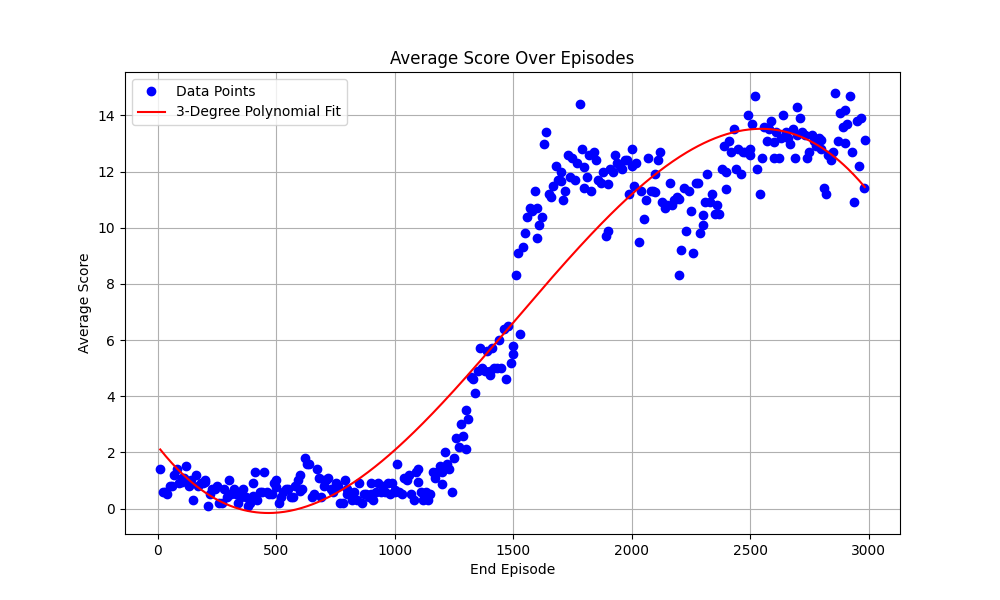
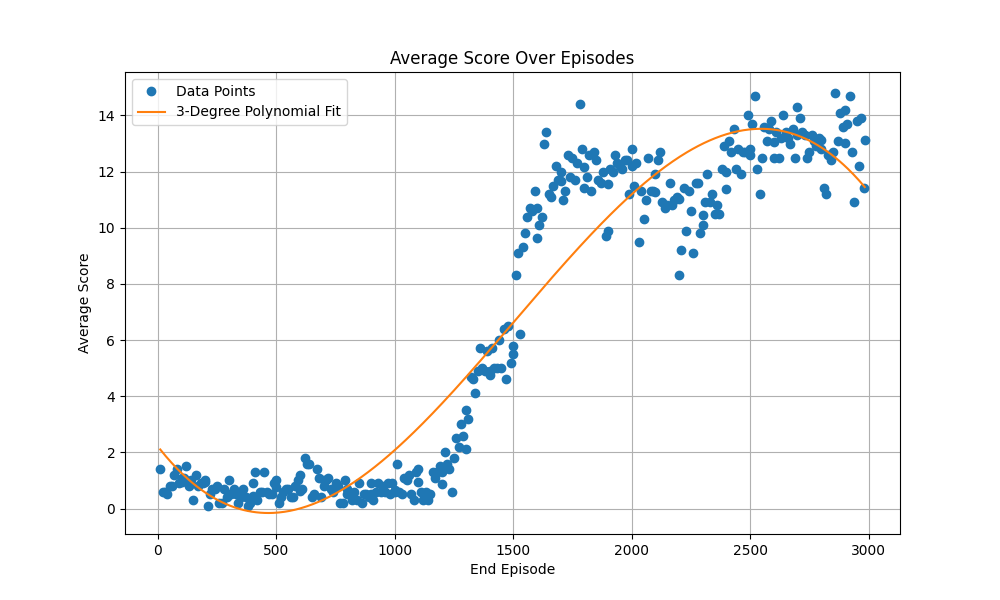
DQN plots use blue and orange, the same as in the LLM plots

diff --git a/dqn_results_analyzer.py b/dqn_results_analyzer.py
@@ -12,56 +12,9 @@ DQN_PONG_ALL_FOLDER = r'.\models\DQN\2024-04-13_17.30_PongDeterministic-v4'
 DQN_BOXING_ALL_FOLDER = r'.\models\DQN\2024-04-13_13.28_BoxingDeterministic-v4'
 
 
-# def plot_average_score(csv_file, save_path):
-#     data = pd.read_csv(csv_file)
-#
-#     plt.figure(figsize=(10, 6))
-#     plt.plot(data['end_episode'], data['average_score'], marker='o')
-#     plt.title('Average Score Over Episodes')
-#     plt.xlabel('End Episode')
-#     plt.ylabel('Average Score')
-#     plt.grid(True)
-#
-#     plt.savefig(save_path)
-#     plt.close()
-
-
-# def plot_average_score(csv_file, save_path):
-#     # Load the data from the CSV file
-#     data = pd.read_csv(csv_file)
-#
-#     # Extracting x and y values for plotting
-#     x = data['end_episode']
-#     y = data['average_score']
-#
-#     # Create a polynomial fit of degree 2 (quadratic)
-#     coeffs = np.polyfit(x, y, 2)
-#     # Generate a polynomial function from the coefficients
-#     poly_eq = np.poly1d(coeffs)
-#     # Create smooth x values for plotting the curve
-#     x_smooth = np.linspace(x.min(), x.max(), 500)
-#     # Generate y values from the polynomial function
-#     y_smooth = poly_eq(x_smooth)
-#
-#     # Plotting the data
-#     plt.figure(figsize=(10, 6))
-#     plt.plot(x, y, 'bo', label='Data Points')  # 'bo' for blue circle markers
-#     plt.plot(x_smooth, y_smooth, 'r-', label='Fit Curve')  # 'r-' for red line
-#     plt.title('Average Score Over Episodes')
-#     plt.xlabel('End Episode')
-#     plt.ylabel('Average Score')
-#     plt.grid(True)
-#     plt.legend()
-#
-#     # Save the plot to the specified path
-#     plt.savefig(save_path)
-#     plt.close()
-
 def plot_average_score(csv_file, save_path, poly_degree=3):
-    # Load the data from the CSV file
     data = pd.read_csv(csv_file)
 
-    # Extracting x and y values for plotting
     x = data['end_episode']
     y = data['average_score']
 
@@ -74,19 +27,17 @@ def plot_average_score(csv_file, save_path, poly_degree=3):
     # Generate y values from the polynomial function
     y_smooth = poly_eq(x_smooth)
 
-    # Plotting the data
     plt.figure(figsize=(10, 6))
-    plt.plot(x, y, 'bo', label='Data Points')  # 'bo' for blue circle markers
-    plt.plot(x_smooth, y_smooth, 'r-', label=f'{poly_degree}-Degree Polynomial Fit')  # 'r-' for red line
+    plt.plot(x, y, 'o', color='#1f77b4', label='Data Points')
+    plt.plot(x_smooth, y_smooth, '-', color='#ff7f0e', label=f'{poly_degree}-Degree Polynomial Fit')
     plt.title('Average Score Over Episodes')
     plt.xlabel('End Episode')
     plt.ylabel('Average Score')
     plt.grid(True)
     plt.legend()
-
-    # Save the plot to the specified path
     plt.savefig(save_path)
     plt.close()
+
 
 def plot_all():
 
